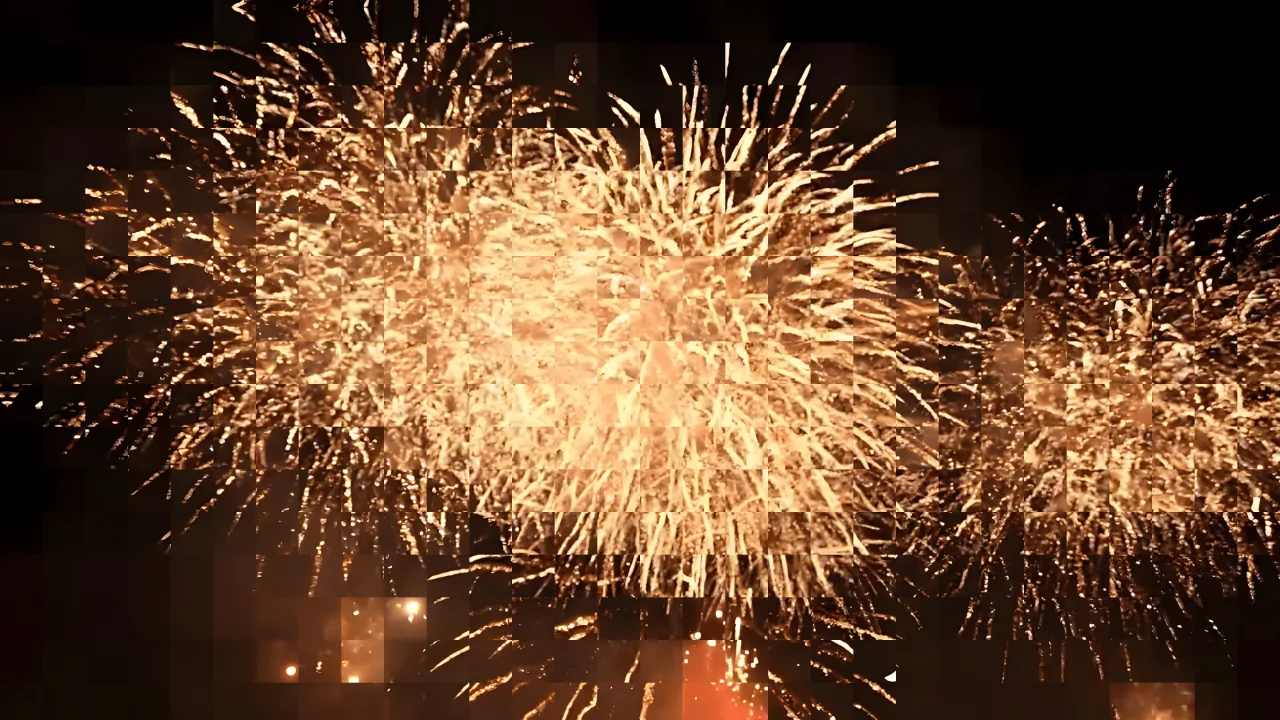
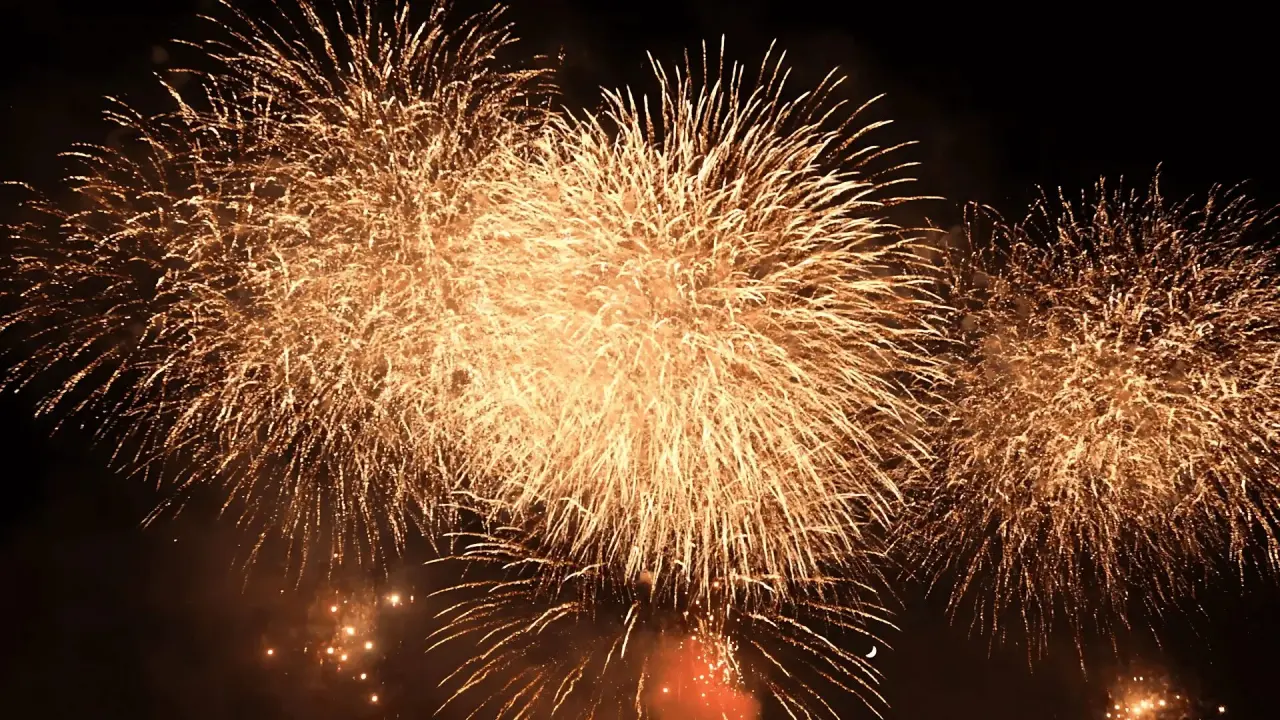
ラウンド80: hero 画像を Round 79 以前の状態に完全リバート
【背景】
Round 79 の Real-ESRGAN 超解像が、タイル境界アーティファクト
(チェッカーボード模様)を画像全体に発生させていた。
ユーザーから「ダメダメ」フィードバック。

【リバート内容】
- assets/hero-fireworks-real.webp        ← R78以前のオリジナル(479 KB)
- assets/hero-fireworks-real-1280.webp   ← 同上(180 KB)
- assets/hero-fireworks-real-800.webp    ← 同上(84 KB)
- assets/hero-fireworks-real-2560.webp   ← 削除
- index.html preload から 2560w 参照削除
- index.html Critical CSS から @user (min-width:1921px) 削除

【今後の方針】
タイル境界対策(-t 0 → -t 512/1024 等)を試すか、別アプローチ
(元画像の取得、他の AI 上scaler、Lanczos など)を再検討。

bump-cache: v68→v69 / ?v=20260524x→y (15 HTML)

diff --git a/index.html b/index.html
@@ -49,9 +49,9 @@
     <meta name="google-site-verification" content="_SB5wUXCuqfQHGCTuY0_c6xVeaRyJ9jwoDLAwN-SYh0">
     <link rel="icon" href="assets/favicon.ico" sizes="any">
     <link rel="apple-touch-icon" sizes="192x192" href="/assets/icon-192.png">
-    <link rel="preload" as="image" imagesrcset="assets/hero-fireworks-real-800.webp 800w, assets/hero-fireworks-real-1280.webp 1280w, assets/hero-fireworks-real.webp 1920w, assets/hero-fireworks-real-2560.webp 2560w" imagesizes="100vw" fetchpriority="high">
+    <link rel="preload" as="image" imagesrcset="assets/hero-fireworks-real-800.webp 800w, assets/hero-fireworks-real-1280.webp 1280w, assets/hero-fireworks-real.webp 1920w" imagesizes="100vw" fetchpriority="high">
     <!-- Fallback for browsers that don't support responsive preload (older Safari) -->
-    <link rel="preload" as="image" href="assets/hero-fireworks-real-2560.webp" media="(min-width: 1921px)">
+    <link rel="preload" as="image" href="assets/hero-fireworks-real.webp" media="(min-width: 1281px)">
     <link rel="dns-prefetch" href="https://0k3w9bd30b.microcms.io">
     <link rel="dns-prefetch" href="https://images.microcms-assets.io">
     <link rel="dns-prefetch" href="https://www.googletagmanager.com">
@@ -288,7 +288,6 @@
     .hero{position:relative;display:grid;align-items:end;min-height:92vh;padding:136px clamp(22px,6vw,84px) 7vh;color:#fff;background:linear-gradient(90deg,rgba(8,13,25,.85) 0,rgba(8,13,25,.55) 45%,rgba(8,13,25,.05) 100%),linear-gradient(180deg,rgba(8,13,25,.02) 58%,rgba(8,13,25,.88) 100%),url(assets/hero-fireworks-real-800.webp) center/cover;isolation:isolate}
     @media (min-width:801px){.hero{background-image:linear-gradient(90deg,rgba(8,13,25,.85) 0,rgba(8,13,25,.55) 45%,rgba(8,13,25,.05) 100%),linear-gradient(180deg,rgba(8,13,25,.02) 58%,rgba(8,13,25,.88) 100%),url(assets/hero-fireworks-real-1280.webp)}}
     @media (min-width:1281px){.hero{background-image:linear-gradient(90deg,rgba(8,13,25,.85) 0,rgba(8,13,25,.55) 45%,rgba(8,13,25,.05) 100%),linear-gradient(180deg,rgba(8,13,25,.02) 58%,rgba(8,13,25,.88) 100%),url(assets/hero-fireworks-real.webp)}}
-    @media (min-width:1921px){.hero{background-image:linear-gradient(90deg,rgba(8,13,25,.85) 0,rgba(8,13,25,.55) 45%,rgba(8,13,25,.05) 100%),linear-gradient(180deg,rgba(8,13,25,.02) 58%,rgba(8,13,25,.88) 100%),url(assets/hero-fireworks-real-2560.webp)}}
     .hero-content{position:relative;z-index:3;max-width:760px}
     .hero-sparks{position:absolute;inset:0;z-index:2;pointer-events:none;overflow:hidden}
     .hero h1{max-width:720px;margin-bottom:20px;font-size:clamp(2.4rem,7vw,5.4rem);font-weight:900;line-break:strict;word-break:keep-all;text-shadow:0 2px 24px rgba(0,0,0,.45)}
@@ -304,14 +303,14 @@
     .hero-badge-text strong{color:var(--gold);font-weight:900;letter-spacing:.04em}
     @media (prefers-color-scheme:dark){:root{--ink:#f1eee5;--muted:#a4b1ba;--paper:#0c1320;--cream:#1a2236;--line:rgba(255,255,255,.10)}}
     </style>
-    <link rel="preload" href="styles.css?v=20260524x" as="style" onload="this.onload=null;this.rel='stylesheet'">
-    <noscript><link rel="stylesheet" href="styles.css?v=20260524x"></noscript>
-    <script src="analytics.js?v=20260524x" defer></script>
-    <script src="ui.js?v=20260524x" defer></script>
-    <script src="microcms-config.js?v=20260524x" defer></script>
-    <script src="script.js?v=20260524x" defer></script>
-    <script src="microcms-extras.js?v=20260524x" defer></script>
-    <script src="sponsor-urls.js?v=20260524x" defer></script>
+    <link rel="preload" href="styles.css?v=20260524y" as="style" onload="this.onload=null;this.rel='stylesheet'">
+    <noscript><link rel="stylesheet" href="styles.css?v=20260524y"></noscript>
+    <script src="analytics.js?v=20260524y" defer></script>
+    <script src="ui.js?v=20260524y" defer></script>
+    <script src="microcms-config.js?v=20260524y" defer></script>
+    <script src="script.js?v=20260524y" defer></script>
+    <script src="microcms-extras.js?v=20260524y" defer></script>
+    <script src="sponsor-urls.js?v=20260524y" defer></script>
     <script>
       // Register Service Worker for offline support / PWA
       if ("serviceWorker" in navigator) {

diff --git a/2024-hanabi.html b/2024-hanabi.html
@@ -105,11 +105,11 @@
     .page-hero-pill-dot{display:inline-block;width:7px;height:7px;border-radius:50%;background:var(--gold)}
     @media (prefers-color-scheme:dark){:root{--ink:#f1eee5;--muted:#a4b1ba;--paper:#0c1320;--cream:#1a2236;--gold-text:#e0c478;--line:rgba(255,255,255,.10)}}
     </style>
-    <link rel="preload" href="styles.css?v=20260524x" as="style" onload="this.onload=null;this.rel='stylesheet'">
-    <noscript><link rel="stylesheet" href="styles.css?v=20260524x"></noscript>
-    <script src="analytics.js?v=20260524x" defer></script>
-    <script src="ui.js?v=20260524x" defer></script>
-    <script src="sponsor-urls.js?v=20260524x" defer></script>
+    <link rel="preload" href="styles.css?v=20260524y" as="style" onload="this.onload=null;this.rel='stylesheet'">
+    <noscript><link rel="stylesheet" href="styles.css?v=20260524y"></noscript>
+    <script src="analytics.js?v=20260524y" defer></script>
+    <script src="ui.js?v=20260524y" defer></script>
+    <script src="sponsor-urls.js?v=20260524y" defer></script>
     <script>
       if ("serviceWorker" in navigator) {
         window.addEventListener("load", function () {

diff --git a/access.html b/access.html
@@ -105,11 +105,11 @@
     .page-hero-pill-dot{display:inline-block;width:7px;height:7px;border-radius:50%;background:var(--gold)}
     @media (prefers-color-scheme:dark){:root{--ink:#f1eee5;--muted:#a4b1ba;--paper:#0c1320;--cream:#1a2236;--gold-text:#e0c478;--line:rgba(255,255,255,.10)}}
     </style>
-    <link rel="preload" href="styles.css?v=20260524x" as="style" onload="this.onload=null;this.rel='stylesheet'">
-    <noscript><link rel="stylesheet" href="styles.css?v=20260524x"></noscript>
-    <script src="analytics.js?v=20260524x" defer></script>
-    <script src="ui.js?v=20260524x" defer></script>
-    <script src="sponsor-urls.js?v=20260524x" defer></script>
+    <link rel="preload" href="styles.css?v=20260524y" as="style" onload="this.onload=null;this.rel='stylesheet'">
+    <noscript><link rel="stylesheet" href="styles.css?v=20260524y"></noscript>
+    <script src="analytics.js?v=20260524y" defer></script>
+    <script src="ui.js?v=20260524y" defer></script>
+    <script src="sponsor-urls.js?v=20260524y" defer></script>
     <script>
       if ("serviceWorker" in navigator) {
         window.addEventListener("load", function () {

diff --git a/akiruno-kanko.html b/akiruno-kanko.html
@@ -105,11 +105,11 @@
     .page-hero-pill-dot{display:inline-block;width:7px;height:7px;border-radius:50%;background:var(--gold)}
     @media (prefers-color-scheme:dark){:root{--ink:#f1eee5;--muted:#a4b1ba;--paper:#0c1320;--cream:#1a2236;--gold-text:#e0c478;--line:rgba(255,255,255,.10)}}
     </style>
-    <link rel="preload" href="styles.css?v=20260524x" as="style" onload="this.onload=null;this.rel='stylesheet'">
-    <noscript><link rel="stylesheet" href="styles.css?v=20260524x"></noscript>
-    <script src="analytics.js?v=20260524x" defer></script>
-    <script src="ui.js?v=20260524x" defer></script>
-    <script src="sponsor-urls.js?v=20260524x" defer></script>
+    <link rel="preload" href="styles.css?v=20260524y" as="style" onload="this.onload=null;this.rel='stylesheet'">
+    <noscript><link rel="stylesheet" href="styles.css?v=20260524y"></noscript>
+    <script src="analytics.js?v=20260524y" defer></script>
+    <script src="ui.js?v=20260524y" defer></script>
+    <script src="sponsor-urls.js?v=20260524y" defer></script>
     <script>
       if ("serviceWorker" in navigator) {
         window.addEventListener("load", function () {

diff --git a/company.html b/company.html
@@ -105,11 +105,11 @@
     .page-hero-pill-dot{display:inline-block;width:7px;height:7px;border-radius:50%;background:var(--gold)}
     @media (prefers-color-scheme:dark){:root{--ink:#f1eee5;--muted:#a4b1ba;--paper:#0c1320;--cream:#1a2236;--gold-text:#e0c478;--line:rgba(255,255,255,.10)}}
     </style>
-    <link rel="preload" href="styles.css?v=20260524x" as="style" onload="this.onload=null;this.rel='stylesheet'">
-    <noscript><link rel="stylesheet" href="styles.css?v=20260524x"></noscript>
-    <script src="analytics.js?v=20260524x" defer></script>
-    <script src="ui.js?v=20260524x" defer></script>
-    <script src="sponsor-urls.js?v=20260524x" defer></script>
+    <link rel="preload" href="styles.css?v=20260524y" as="style" onload="this.onload=null;this.rel='stylesheet'">
+    <noscript><link rel="stylesheet" href="styles.css?v=20260524y"></noscript>
+    <script src="analytics.js?v=20260524y" defer></script>
+    <script src="ui.js?v=20260524y" defer></script>
+    <script src="sponsor-urls.js?v=20260524y" defer></script>
     <script>
       if ("serviceWorker" in navigator) {
         window.addEventListener("load", function () {

diff --git a/contact.html b/contact.html
@@ -105,11 +105,11 @@
     .page-hero-pill-dot{display:inline-block;width:7px;height:7px;border-radius:50%;background:var(--gold)}
     @media (prefers-color-scheme:dark){:root{--ink:#f1eee5;--muted:#a4b1ba;--paper:#0c1320;--cream:#1a2236;--gold-text:#e0c478;--line:rgba(255,255,255,.10)}}
     </style>
-    <link rel="preload" href="styles.css?v=20260524x" as="style" onload="this.onload=null;this.rel='stylesheet'">
-    <noscript><link rel="stylesheet" href="styles.css?v=20260524x"></noscript>
-    <script src="analytics.js?v=20260524x" defer></script>
-    <script src="ui.js?v=20260524x" defer></script>
-    <script src="sponsor-urls.js?v=20260524x" defer></script>
+    <link rel="preload" href="styles.css?v=20260524y" as="style" onload="this.onload=null;this.rel='stylesheet'">
+    <noscript><link rel="stylesheet" href="styles.css?v=20260524y"></noscript>
+    <script src="analytics.js?v=20260524y" defer></script>
+    <script src="ui.js?v=20260524y" defer></script>
+    <script src="sponsor-urls.js?v=20260524y" defer></script>
     <script>
       if ("serviceWorker" in navigator) {
         window.addEventListener("load", function () {

diff --git a/donation.html b/donation.html
@@ -105,11 +105,11 @@
     .page-hero-pill-dot{display:inline-block;width:7px;height:7px;border-radius:50%;background:var(--gold)}
     @media (prefers-color-scheme:dark){:root{--ink:#f1eee5;--muted:#a4b1ba;--paper:#0c1320;--cream:#1a2236;--gold-text:#e0c478;--line:rgba(255,255,255,.10)}}
     </style>
-    <link rel="preload" href="styles.css?v=20260524x" as="style" onload="this.onload=null;this.rel='stylesheet'">
-    <noscript><link rel="stylesheet" href="styles.css?v=20260524x"></noscript>
-    <script src="analytics.js?v=20260524x" defer></script>
-    <script src="ui.js?v=20260524x" defer></script>
-    <script src="sponsor-urls.js?v=20260524x" defer></script>
+    <link rel="preload" href="styles.css?v=20260524y" as="style" onload="this.onload=null;this.rel='stylesheet'">
+    <noscript><link rel="stylesheet" href="styles.css?v=20260524y"></noscript>
+    <script src="analytics.js?v=20260524y" defer></script>
+    <script src="ui.js?v=20260524y" defer></script>
+    <script src="sponsor-urls.js?v=20260524y" defer></script>
     <script>
       if ("serviceWorker" in navigator) {
         window.addEventListener("load", function () {

diff --git a/event.html b/event.html
@@ -141,11 +141,11 @@
     .page-hero-pill-dot{display:inline-block;width:7px;height:7px;border-radius:50%;background:var(--gold)}
     @media (prefers-color-scheme:dark){:root{--ink:#f1eee5;--muted:#a4b1ba;--paper:#0c1320;--cream:#1a2236;--gold-text:#e0c478;--line:rgba(255,255,255,.10)}}
     </style>
-    <link rel="preload" href="styles.css?v=20260524x" as="style" onload="this.onload=null;this.rel='stylesheet'">
-    <noscript><link rel="stylesheet" href="styles.css?v=20260524x"></noscript>
-    <script src="analytics.js?v=20260524x" defer></script>
-    <script src="ui.js?v=20260524x" defer></script>
-    <script src="sponsor-urls.js?v=20260524x" defer></script>
+    <link rel="preload" href="styles.css?v=20260524y" as="style" onload="this.onload=null;this.rel='stylesheet'">
+    <noscript><link rel="stylesheet" href="styles.css?v=20260524y"></noscript>
+    <script src="analytics.js?v=20260524y" defer></script>
+    <script src="ui.js?v=20260524y" defer></script>
+    <script src="sponsor-urls.js?v=20260524y" defer></script>
     <script>
       if ("serviceWorker" in navigator) {
         window.addEventListener("load", function () {

diff --git a/food-application.html b/food-application.html
@@ -105,11 +105,11 @@
     .page-hero-pill-dot{display:inline-block;width:7px;height:7px;border-radius:50%;background:var(--gold)}
     @media (prefers-color-scheme:dark){:root{--ink:#f1eee5;--muted:#a4b1ba;--paper:#0c1320;--cream:#1a2236;--gold-text:#e0c478;--line:rgba(255,255,255,.10)}}
     </style>
-    <link rel="preload" href="styles.css?v=20260524x" as="style" onload="this.onload=null;this.rel='stylesheet'">
-    <noscript><link rel="stylesheet" href="styles.css?v=20260524x"></noscript>
-    <script src="analytics.js?v=20260524x" defer></script>
-    <script src="ui.js?v=20260524x" defer></script>
-    <script src="sponsor-urls.js?v=20260524x" defer></script>
+    <link rel="preload" href="styles.css?v=20260524y" as="style" onload="this.onload=null;this.rel='stylesheet'">
+    <noscript><link rel="stylesheet" href="styles.css?v=20260524y"></noscript>
+    <script src="analytics.js?v=20260524y" defer></script>
+    <script src="ui.js?v=20260524y" defer></script>
+    <script src="sponsor-urls.js?v=20260524y" defer></script>
     <script>
       if ("serviceWorker" in navigator) {
         window.addEventListener("load", function () {

diff --git a/pr.html b/pr.html
@@ -105,11 +105,11 @@
     .page-hero-pill-dot{display:inline-block;width:7px;height:7px;border-radius:50%;background:var(--gold)}
     @media (prefers-color-scheme:dark){:root{--ink:#f1eee5;--muted:#a4b1ba;--paper:#0c1320;--cream:#1a2236;--gold-text:#e0c478;--line:rgba(255,255,255,.10)}}
     </style>
-    <link rel="preload" href="styles.css?v=20260524x" as="style" onload="this.onload=null;this.rel='stylesheet'">
-    <noscript><link rel="stylesheet" href="styles.css?v=20260524x"></noscript>
-    <script src="analytics.js?v=20260524x" defer></script>
-    <script src="ui.js?v=20260524x" defer></script>
-    <script src="sponsor-urls.js?v=20260524x" defer></script>
+    <link rel="preload" href="styles.css?v=20260524y" as="style" onload="this.onload=null;this.rel='stylesheet'">
+    <noscript><link rel="stylesheet" href="styles.css?v=20260524y"></noscript>
+    <script src="analytics.js?v=20260524y" defer></script>
+    <script src="ui.js?v=20260524y" defer></script>
+    <script src="sponsor-urls.js?v=20260524y" defer></script>
     <script>
       if ("serviceWorker" in navigator) {
         window.addEventListener("load", function () {

diff --git a/privacy-policy.html b/privacy-policy.html
@@ -105,11 +105,11 @@
     .page-hero-pill-dot{display:inline-block;width:7px;height:7px;border-radius:50%;background:var(--gold)}
     @media (prefers-color-scheme:dark){:root{--ink:#f1eee5;--muted:#a4b1ba;--paper:#0c1320;--cream:#1a2236;--gold-text:#e0c478;--line:rgba(255,255,255,.10)}}
     </style>
-    <link rel="preload" href="styles.css?v=20260524x" as="style" onload="this.onload=null;this.rel='stylesheet'">
-    <noscript><link rel="stylesheet" href="styles.css?v=20260524x"></noscript>
-    <script src="analytics.js?v=20260524x" defer></script>
-    <script src="ui.js?v=20260524x" defer></script>
-    <script src="sponsor-urls.js?v=20260524x" defer></script>
+    <link rel="preload" href="styles.css?v=20260524y" as="style" onload="this.onload=null;this.rel='stylesheet'">
+    <noscript><link rel="stylesheet" href="styles.css?v=20260524y"></noscript>
+    <script src="analytics.js?v=20260524y" defer></script>
+    <script src="ui.js?v=20260524y" defer></script>
+    <script src="sponsor-urls.js?v=20260524y" defer></script>
     <script>
       if ("serviceWorker" in navigator) {
         window.addEventListener("load", function () {

diff --git a/qa.html b/qa.html
@@ -105,11 +105,11 @@
     .page-hero-pill-dot{display:inline-block;width:7px;height:7px;border-radius:50%;background:var(--gold)}
     @media (prefers-color-scheme:dark){:root{--ink:#f1eee5;--muted:#a4b1ba;--paper:#0c1320;--cream:#1a2236;--gold-text:#e0c478;--line:rgba(255,255,255,.10)}}
     </style>
-    <link rel="preload" href="styles.css?v=20260524x" as="style" onload="this.onload=null;this.rel='stylesheet'">
-    <noscript><link rel="stylesheet" href="styles.css?v=20260524x"></noscript>
-    <script src="analytics.js?v=20260524x" defer></script>
-    <script src="ui.js?v=20260524x" defer></script>
-    <script src="sponsor-urls.js?v=20260524x" defer></script>
+    <link rel="preload" href="styles.css?v=20260524y" as="style" onload="this.onload=null;this.rel='stylesheet'">
+    <noscript><link rel="stylesheet" href="styles.css?v=20260524y"></noscript>
+    <script src="analytics.js?v=20260524y" defer></script>
+    <script src="ui.js?v=20260524y" defer></script>
+    <script src="sponsor-urls.js?v=20260524y" defer></script>
     <script>
       if ("serviceWorker" in navigator) {
         window.addEventListener("load", function () {